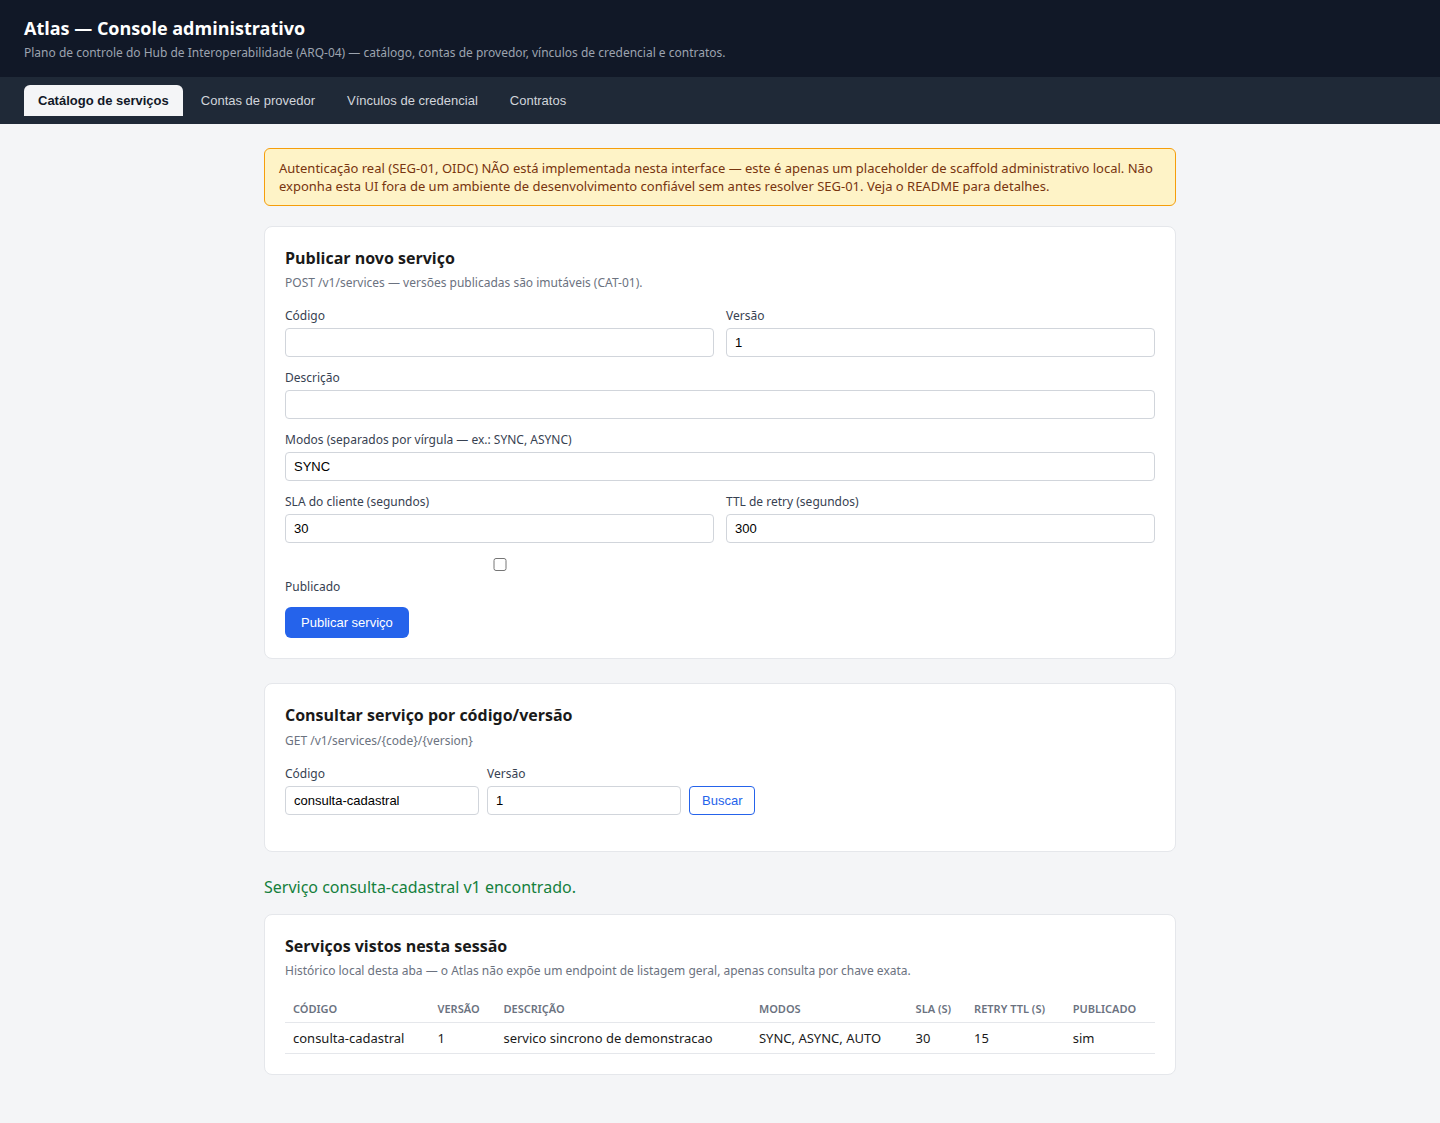
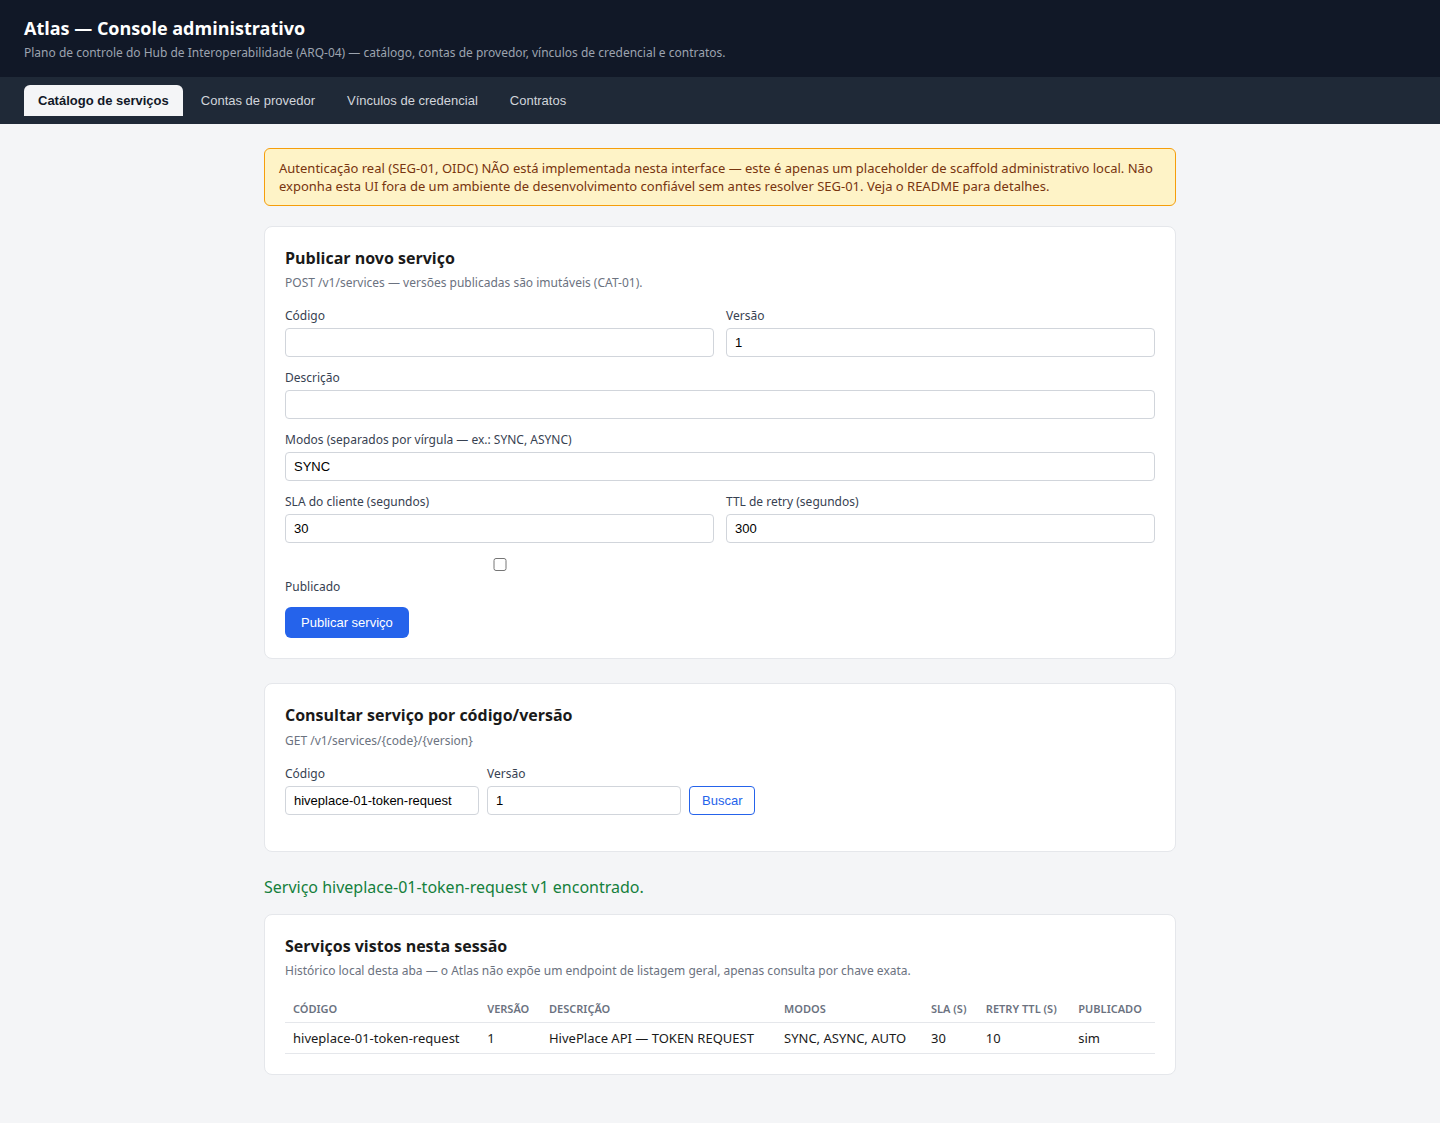
feat(catalogo): importa APIs HivePlace da collection Postman
Contexto: substitui os fixtures de teste por 34 produtos e 232 endpoints da collection Hive, associados ao provedor HivePlace em HML.\n\nImpacto: adiciona catálogo de endpoints sanitizado, preserva histórico operacional, impede reintrodução de fixtures pelo seed e mantém credenciais locais fora do versionamento.

diff --git a/hub/evidence/EVIDENCE.md b/hub/evidence/EVIDENCE.md
@@ -8,6 +8,11 @@ dos logs de cada serviço e de capturas de tela do frontend e do Swagger. Nada a
 simulado ou reconstruído a posteriori — todo arquivo nesta pasta é a saída literal de um
 comando executado contra a stack real.
 
+**Estado corrente:** a importação HivePlace descrita ao final deste documento substitui
+o catálogo de fixtures de teste. As seções de tráfego, filas e faturamento anteriores
+continuam como evidência histórica da fatia inicial e não representam o catálogo
+corrente do plano de controle.
+
 Ver também `IMPLEMENTATION_AUDIT.md` (raiz do repositório) para a auditoria de
 implementação e `openspec/changes/hub-interoperabilidade-v4/TRACEABILITY.md` para a
 revisão requisito-a-requisito de todo o OpenSpec contra este código.
@@ -15,8 +20,8 @@ revisão requisito-a-requisito de todo o OpenSpec contra este código.
 ## Como reproduzir
 
 ```bash
-cd hub/deploy && docker compose up -d --build   # sobe a stack e roda o seed
-cd ../evidence && ./generate_traffic.sh          # gera os 10 cenarios abaixo
+cd hub/deploy && docker compose up -d --build   # sobe a stack; seed de fixtures é no-op
+cd .. && deploy/import_hiveplace_collection.sh  # importa Hive: 34 produtos/232 endpoints
 ```
 
 ## Reexecução confirmada em 07/09/2026
@@ -176,14 +181,14 @@ Geradas via Playwright (Chromium do sistema) contra a stack real e o admin-ui em
 dev, script em `shoot.mjs`:
 
 - `admin-ui-00-inicial.png` — tela inicial.
-- `admin-ui-01-servicos.png` — catálogo, com o serviço `consulta-cadastral` v1 real
+- `admin-ui-01-servicos.png` — catálogo, com o produto `hiveplace-01-token-request` v1 real
   consultado ao vivo via API.
-- `admin-ui-02-contas-provedor.png` — configuração de `prov-oauth-1`, exibindo OAuth
-  Client Credentials e TTL sem exibir segredo.
+- `admin-ui-02-contas-provedor.png` — configuração de `provider-hiveplace-hml`, exibindo
+  HivePlace, OAuth Client Credentials e TTL sem exibir segredo.
 - `admin-ui-03-credenciais.png` — resolução real de credencial (SEG-05) para
-  tenant `acme` / `prov-sync-1`, mostrando o vínculo `SHARED_HUB` resolvido (sem expor
+  tenant `hiveplace-sandbox` / `provider-hiveplace-hml`, mostrando o vínculo `SHARED_HUB` resolvido (sem expor
   segredo — só `secret_ref`).
-- `admin-ui-04-contratos.png` — contrato do tenant `acme`.
+- `admin-ui-04-contratos.png` — contrato do tenant `hiveplace-sandbox`.
 - `swagger-ui-01-overview.png` — Swagger UI real (container `swagger-ui`, porta 8092)
   servindo os dois documentos OpenAPI do hub.
 - `swagger-ui-02-endpoint-expanded.png` — detalhe do endpoint `POST /v1/protocols`
@@ -214,6 +219,20 @@ isso foi corrigido, o serviço foi reconstruído e a rodada final passou.
 Limite da evidência: `MTLS_OAUTH` demonstra a política e a associação da referência de
 certificado no simulador, mas não substitui handshake TLS/mTLS nem uma PKI real. Também
 não há exposição de segredo: os campos persistidos são apenas referências `vault://`.
+
+## Importação HivePlace a partir da collection Postman
+
+Em 07/09/2026, a collection `Hive` fornecida pelo usuário foi tratada como fonte de
+metadados e importada pelo script `../deploy/import_hiveplace_collection.sh`. O resultado
+foi uma conta `provider-hiveplace-hml` (`provider_id=HivePlace`, ambiente `HML`), 34
+produtos e 232 endpoints no catálogo `provider_api_catalog`. A distribuição dos endpoints
+por autenticação é: 150 `NONE`, 69 `BEARER`, 11 `API_KEY` e 2 `BASIC`.
+
+Os valores do environment não foram persistidos. O banco guarda somente referências
+`postman-Hive-HML-userName`, `postman-Hive-HML-userPass` e a referência agregada do
+vínculo compartilhado. Os registros de teste do plano de controle foram removidos;
+protocolos e operações históricas em `hub_core` foram preservados. A saída da consulta
+está em `db/hiveplace_catalog_import.txt`.
 
 ## Achados desta sessão (novos, além dos 5 já registrados na auditoria anterior)
 

diff --git a/IMPLEMENTATION_AUDIT.md b/IMPLEMENTATION_AUDIT.md
@@ -30,6 +30,15 @@ SHARED_HUB/TENANT_DEDICATED. A validação do cadastro rejeita perfis incompleto
 Isso não encerra os requisitos de produto composto, seleção automática de provedor,
 autenticação inbound real, ledger, RLS, tracing distribuído ou observabilidade completa.
 
+**Importação HivePlace (07/09/2026):** a collection Postman fornecida foi importada como
+34 produtos e 232 endpoints sanitizados na tabela `provider_api_catalog`, associados à
+conta `provider-hiveplace-hml` em HML. Os serviços de teste do plano de controle foram
+removidos sem apagar histórico de `hub_core`/`hub_finance`. O catálogo registra apenas
+metadados de método, path, headers/query names e tipo de autenticação; bodies, tokens,
+API keys e senhas não são persistidos.
+O `seed` de fixtures foi desabilitado para impedir que reinicializações reintroduzam as
+APIs de teste; a importação é explícita em `hub/deploy/import_hiveplace_collection.sh`.
+
 ## Como ler este documento
 
 Cada item é marcado como:

diff --git a/hub/evidence/reports/provider_auth_audit_2026-09-07.md b/hub/evidence/reports/provider_auth_audit_2026-09-07.md
@@ -41,3 +41,14 @@ HTTPS com certificado cliente, cadeia de confiança, rotação e armazenamento s
 As referências `vault://` também precisam ser ligadas a Secrets Manager/KMS ou cofre
 equivalente. Inbound OAuth/OIDC do cliente ainda não está implementado; a entrada local
 continua baseada em `X-Tenant-Id`.
+
+## Compatibilidade dos testes legados
+
+Os testes E2E originais da fatia inicial referenciam deliberadamente os fixtures
+`consulta-cadastral`/`prov-sync-1`. Após a substituição solicitada, uma execução sem
+cache (`go test -count=1 -tags e2e ./test/e2e/...`) não é um teste válido do catálogo
+HivePlace e falha por ausência desses fixtures. Os testes unitários, o build, o Compose,
+a validação das telas e a verificação de contagem do catálogo importado passaram. Uma
+nova suíte E2E específica do contrato externo HivePlace deve ser criada antes de chamar
+essas APIs reais; ela não foi executada para não disparar operações externas com as
+credenciais do environment.
